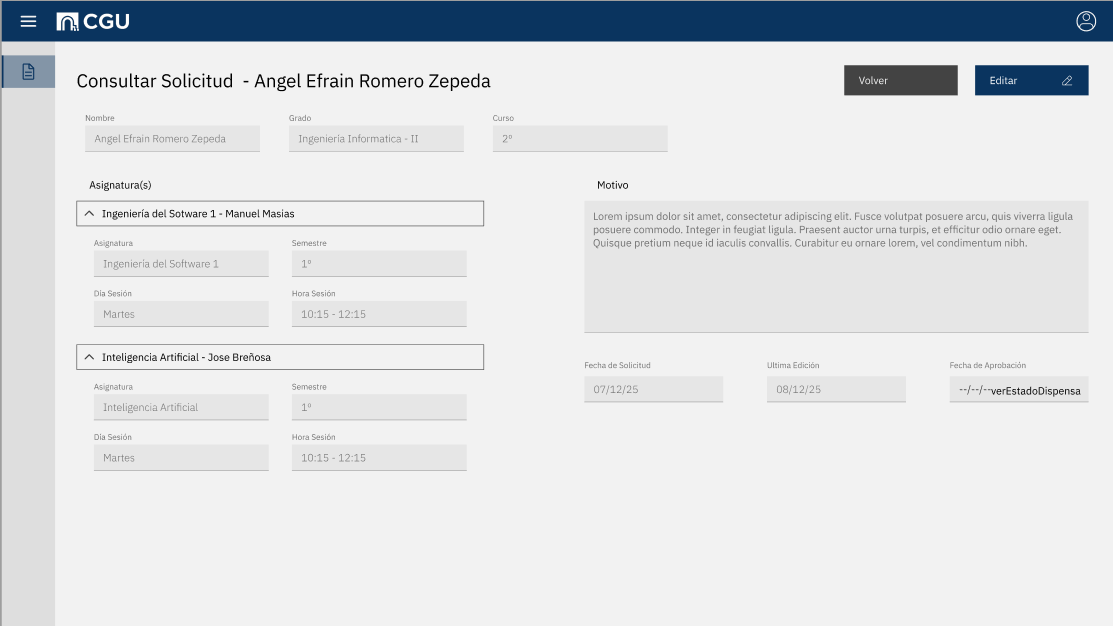
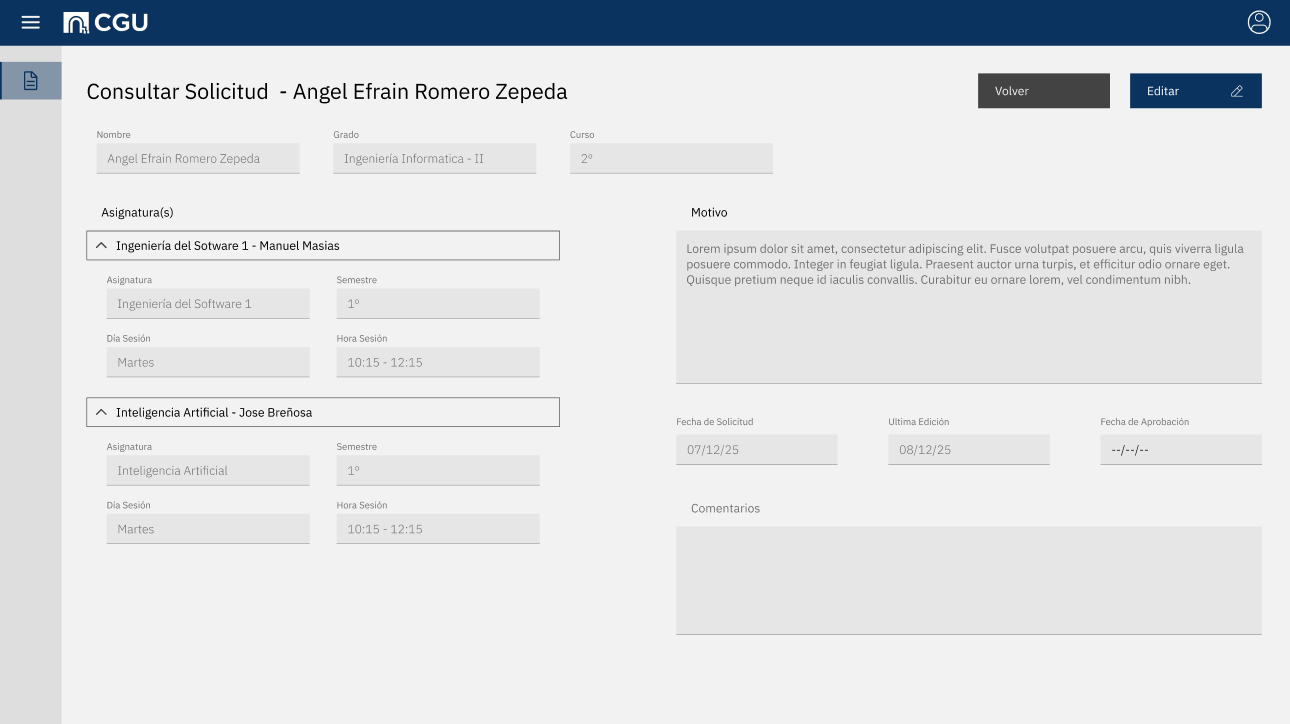
Prototipos necesarios finalizados para Profesor

diff --git a/documents/CasosDeUso/Prototipos/README.md b/documents/CasosDeUso/Prototipos/README.md
@@ -22,18 +22,18 @@
 ### Consultar Solicitud de Dispensa
 
 <p align="center">
-  <img src="./Alumno/consultarSolicitudDispensaAlumno1.png">
+  <img src="./Alumno/consultarSolicitudDispensaAlumno2.png">
 </p>
 
 <p align="center">
-  <img src="./Alumno/consultarSolicitudDispensaAlumno2.png">
+  <img src="./Alumno/consultarSolicitudDispensaAlumno1.png">
 </p>
 
 [![](https://img.shields.io/badge/-Ver_Casos_de_Uso-0D47A1?style=flat&logo=openstreetmap&logoColor=white)](/documents/CasosDeUso/README.MD#Alumno) [![](https://img.shields.io/badge/-Carpeta-0D47A1?style=flat&logo=openstreetmap&logoColor=white)](.) [![](https://img.shields.io/badge/-Navbar-0D47A1?style=flat&logo=openstreetmap&logoColor=white)](#Navbar)
 
 <a name="PrototipoEditarSolicitudDispensa"></a>
 
-### Editar Solicitud de Dispensa
+### Crear / Editar Solicitud de Dispensa
 
 <p align="center">
   <img src="./Alumno/editarSolicitudDispensaAlumno.png">
@@ -133,24 +133,67 @@
 
 ## Profesor
 
+### Listas   
+
 <a name="PrototipoConsultarListasAlumnos"></a>
 
 #### Consultar Listas de Alumnos
 
 <p align="center">
-  <img src="./Profesor/consultarListasAlumnos.png">
+  <img src="./Profesor/consultarListaAlumnos.png">
 </p>
 
 [![](https://img.shields.io/badge/-Ver_Casos_de_Uso-0D47A1?style=flat&logo=openstreetmap&logoColor=white)](/documents/CasosDeUso/README.MD#Profesor) [![](https://img.shields.io/badge/-Carpeta-0D47A1?style=flat&logo=openstreetmap&logoColor=white)](.) [![](https://img.shields.io/badge/-Navbar-0D47A1?style=flat&logo=openstreetmap&logoColor=white)](#Navbar)
 
-### Asistencias
+### Alumnos
 
-<a name="PrototipoAbrirAsistencias"></a>
+<a name="PrototipoVerDetalleAlumno"></a>
 
-#### Abrir Asistencias / Registrar Toma de Asistencia
+#### Ver Detalle de Alumno
 
 <p align="center">
-  <img src="./Profesor/abrirAsistencias.png">
+  <img src="./Profesor/verDetalleAlumno1.png">
+</p>
+
+<p align="center">
+  <img src="./Profesor/verDetalleAlumno2.png">
+</p>
+
+[![](https://img.shields.io/badge/-Ver_Casos_de_Uso-0D47A1?style=flat&logo=openstreetmap&logoColor=white)](/documents/CasosDeUso/README.MD#Profesor) [![](https://img.shields.io/badge/-Carpeta-0D47A1?style=flat&logo=openstreetmap&logoColor=white)](.) [![](https://img.shields.io/badge/-Navbar-0D47A1?style=flat&logo=openstreetmap&logoColor=white)](#Navbar)
+
+<a name="PrototipoGuardarListasAlumnos"></a>
+
+#### Guardar Listas de Alumnos
+
+<p align="center">
+  <img src="./Profesor/guardarListasAlumnos.png">
+</p>
+
+[![](https://img.shields.io/badge/-Ver_Casos_de_Uso-0D47A1?style=flat&logo=openstreetmap&logoColor=white)](/documents/CasosDeUso/README.MD#Profesor) [![](https://img.shields.io/badge/-Carpeta-0D47A1?style=flat&logo=openstreetmap&logoColor=white)](.) [![](https://img.shields.io/badge/-Navbar-0D47A1?style=flat&logo=openstreetmap&logoColor=white)](#Navbar)
+
+---
+
+<a name="Administrador"></a>
+
+
+### Asistencias
+
+<a name="PrototipoExportarHistorialAsistencias"></a>
+
+#### Exportar Historial de Asistencias
+
+<p align="center">
+  <img src="./Profesor/exportarHistorialAsistencias.png">
+</p>
+
+[![](https://img.shields.io/badge/-Ver_Casos_de_Uso-0D47A1?style=flat&logo=openstreetmap&logoColor=white)](/documents/CasosDeUso/README.MD#Profesor) [![](https://img.shields.io/badge/-Carpeta-0D47A1?style=flat&logo=openstreetmap&logoColor=white)](.) [![](https://img.shields.io/badge/-Navbar-0D47A1?style=flat&logo=openstreetmap&logoColor=white)](#Navbar)
+
+<a name="PrototipoCerrarSesionClase"></a>
+
+#### Cerrar Sesión de Clase
+
+<p align="center">
+  <img src="./Profesor/cerrarSesionClase.png">
 </p>
 
 [![](https://img.shields.io/badge/-Ver_Casos_de_Uso-0D47A1?style=flat&logo=openstreetmap&logoColor=white)](/documents/CasosDeUso/README.MD#Profesor) [![](https://img.shields.io/badge/-Carpeta-0D47A1?style=flat&logo=openstreetmap&logoColor=white)](.) [![](https://img.shields.io/badge/-Navbar-0D47A1?style=flat&logo=openstreetmap&logoColor=white)](#Navbar)
@@ -160,7 +203,47 @@
 #### Crear Sesión de Clase
 
 <p align="center">
-  <img src="./Profesor/crearSesionClase.png">
+  <img src="./Profesor/crearSesionClase1.png">
+</p>
+
+[![](https://img.shields.io/badge/-Ver_Casos_de_Uso-0D47A1?style=flat&logo=openstreetmap&logoColor=white)](/documents/CasosDeUso/README.MD#Profesor) [![](https://img.shields.io/badge/-Carpeta-0D47A1?style=flat&logo=openstreetmap&logoColor=white)](.) [![](https://img.shields.io/badge/-Navbar-0D47A1?style=flat&logo=openstreetmap&logoColor=white)](#Navbar)
+
+<a name="PrototipoRegistrarTomaAsistencia"></a>
+
+#### Crear Sesión de Clase -> Registrar Toma de Asistencia
+
+<p align="center">
+  <img src="./Profesor/crearSesionClase2.png">
+</p>
+
+[![](https://img.shields.io/badge/-Ver_Casos_de_Uso-0D47A1?style=flat&logo=openstreetmap&logoColor=white)](/documents/CasosDeUso/README.MD#Profesor) [![](https://img.shields.io/badge/-Carpeta-0D47A1?style=flat&logo=openstreetmap&logoColor=white)](.) [![](https://img.shields.io/badge/-Navbar-0D47A1?style=flat&logo=openstreetmap&logoColor=white)](#Navbar)
+
+<a name="PrototipoEditarSesionClase"></a>
+
+#### Editar Sesión de Clase
+
+<p align="center">
+  <img src="./Profesor/editarSesionClase.png">
+</p>
+
+[![](https://img.shields.io/badge/-Ver_Casos_de_Uso-0D47A1?style=flat&logo=openstreetmap&logoColor=white)](/documents/CasosDeUso/README.MD#Profesor) [![](https://img.shields.io/badge/-Carpeta-0D47A1?style=flat&logo=openstreetmap&logoColor=white)](.) [![](https://img.shields.io/badge/-Navbar-0D47A1?style=flat&logo=openstreetmap&logoColor=white)](#Navbar)
+
+<a name="PrototipoConsultarSolicitudDispensa"></a>
+
+#### Consultar Solicitud de Dispensa
+
+<p align="center">
+  <img src="./Profesor/consultarSolicitudDispensaProfesor1.png">
+</p>
+
+[![](https://img.shields.io/badge/-Ver_Casos_de_Uso-0D47A1?style=flat&logo=openstreetmap&logoColor=white)](/documents/CasosDeUso/README.MD#Profesor) [![](https://img.shields.io/badge/-Carpeta-0D47A1?style=flat&logo=openstreetmap&logoColor=white)](.) [![](https://img.shields.io/badge/-Navbar-0D47A1?style=flat&logo=openstreetmap&logoColor=white)](#Navbar)
+
+<a name="PrototipoAbrirAsistencias"></a>
+
+#### Abrir Asistencias / Registrar Toma de Asistencia
+
+<p align="center">
+  <img src="./Profesor/abrirAsistencias.png">
 </p>
 
 [![](https://img.shields.io/badge/-Ver_Casos_de_Uso-0D47A1?style=flat&logo=openstreetmap&logoColor=white)](/documents/CasosDeUso/README.MD#Profesor) [![](https://img.shields.io/badge/-Carpeta-0D47A1?style=flat&logo=openstreetmap&logoColor=white)](.) [![](https://img.shields.io/badge/-Navbar-0D47A1?style=flat&logo=openstreetmap&logoColor=white)](#Navbar)
@@ -185,41 +268,6 @@
 
 [![](https://img.shields.io/badge/-Ver_Casos_de_Uso-0D47A1?style=flat&logo=openstreetmap&logoColor=white)](/documents/CasosDeUso/README.MD#Profesor) [![](https://img.shields.io/badge/-Carpeta-0D47A1?style=flat&logo=openstreetmap&logoColor=white)](.) [![](https://img.shields.io/badge/-Navbar-0D47A1?style=flat&logo=openstreetmap&logoColor=white)](#Navbar)
 
-### Alumnos
-
-<a name="PrototipoAbrirListasAlumnos"></a>
-
-#### Abrir Listas de Alumnos
-
-<p align="center">
-  <img src="./Profesor/abrirListasAlumnos.png">
-</p>
-
-[![](https://img.shields.io/badge/-Ver_Casos_de_Uso-0D47A1?style=flat&logo=openstreetmap&logoColor=white)](/documents/CasosDeUso/README.MD#Profesor) [![](https://img.shields.io/badge/-Carpeta-0D47A1?style=flat&logo=openstreetmap&logoColor=white)](.) [![](https://img.shields.io/badge/-Navbar-0D47A1?style=flat&logo=openstreetmap&logoColor=white)](#Navbar)
-
-<a name="PrototipoCerrarListasAlumnos"></a>
-
-#### Cerrar Listas de Alumnos
-
-<p align="center">
-  <img src="./Profesor/cerrarListasAlumnos.png">
-</p>
-
-[![](https://img.shields.io/badge/-Ver_Casos_de_Uso-0D47A1?style=flat&logo=openstreetmap&logoColor=white)](/documents/CasosDeUso/README.MD#Profesor) [![](https://img.shields.io/badge/-Carpeta-0D47A1?style=flat&logo=openstreetmap&logoColor=white)](.) [![](https://img.shields.io/badge/-Navbar-0D47A1?style=flat&logo=openstreetmap&logoColor=white)](#Navbar)
-
-<a name="PrototipoGuardarListasAlumnos"></a>
-
-#### Guardar Listas de Alumnos
-
-<p align="center">
-  <img src="./Profesor/guardarListasAlumnos.png">
-</p>
-
-[![](https://img.shields.io/badge/-Ver_Casos_de_Uso-0D47A1?style=flat&logo=openstreetmap&logoColor=white)](/documents/CasosDeUso/README.MD#Profesor) [![](https://img.shields.io/badge/-Carpeta-0D47A1?style=flat&logo=openstreetmap&logoColor=white)](.) [![](https://img.shields.io/badge/-Navbar-0D47A1?style=flat&logo=openstreetmap&logoColor=white)](#Navbar)
-
----
-
-<a name="Administrador"></a>
 
 ## Administrador
 
